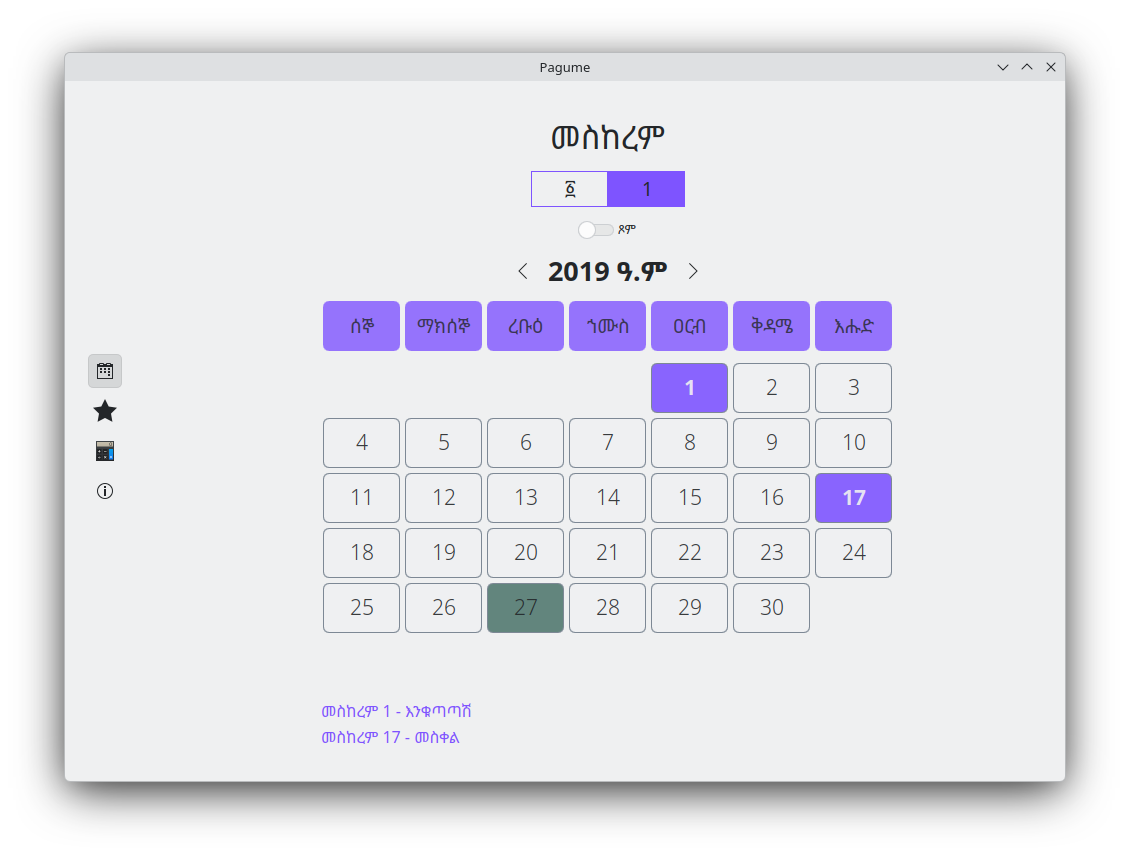
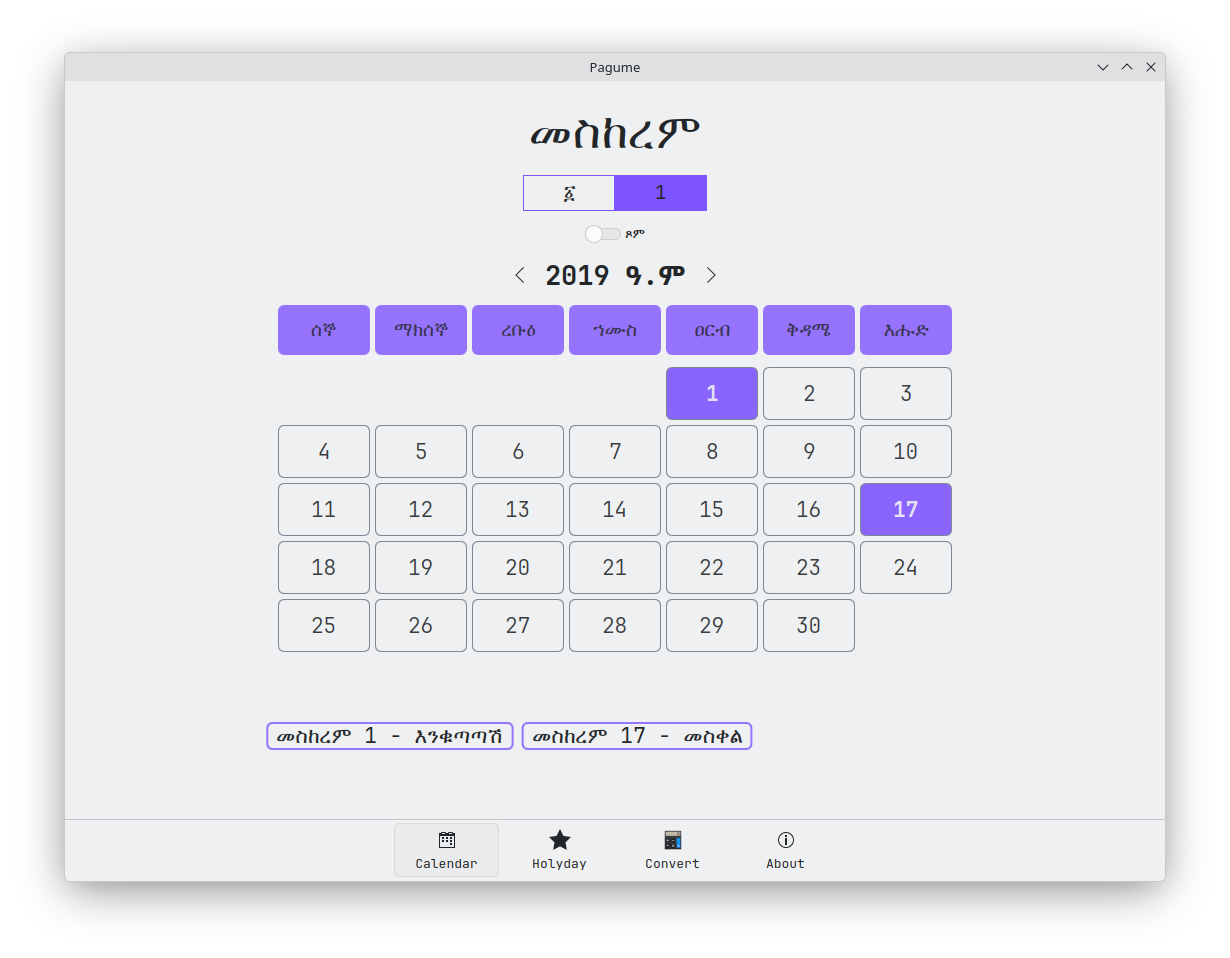
0.3.9

diff --git a/src/qml/pages/Calendar.qml b/src/qml/pages/Calendar.qml
@@ -14,6 +14,7 @@ import "BehareHasab.js" as BahireHasab
 Kirigami.ScrollablePage {
     id: calendarPage
 
+    property bool mobileLayout: Kirigami.Settings.isMobile || width < 600
     property var months: ["መስከረም", "ጥቅምት", "ሕዳር", "ታኅሣሥ", "ጥር", "የካቲት", "መጋቢት", "ሚያዝያ", "ግንቦት", "ሰኔ", "ሐምሌ", "ነሐሴ", "ጳጕሜን"]
     property var amharicNumbers: ["፩", "፪", "፫", "፬", "፭", "፮", "፯", "፰", "፱", "፲", "፲፩", "፲፪", "፲፫", "፲፬", "፲፭", "፲፮", "፲፯", "፲፰", "፲፱", "፳", "፳፩", "፳፪", "፳፫", "፳፬", "፳፭", "፳፮", "፳፯", "፳፰", "፳፱", "፴"]
     property var arabicNumbers: ["1", "2", "3", "4", "5", "6", "7", "8", "9", "10", "11", "12", "13", "14", "15", "16", "17", "18", "19", "20", "21", "22", "23", "24", "25", "26", "27", "28", "29", "30"]
@@ -62,7 +63,7 @@ Kirigami.ScrollablePage {
         publicHolidays.append({
             name: "የብሔር ብሔረሰቦች ቀን",
             month: "ሕዳር",
-            day: 17,
+            day: 29,
             fast: false
         });
 
@@ -173,15 +174,13 @@ Kirigami.ScrollablePage {
     }
 
     ColumnLayout {
-        anchors.top: parent.top
-        anchors.topMargin: Kirigami.Units.largeSpacing * 2
         spacing: Kirigami.Units.largeSpacing * 1.5
         Layout.alignment: Qt.AlignHCenter
 
+        // Month Heading
         Kirigami.Heading {
             text: (calendarPage.currentEthMonth >= 1 && calendarPage.currentEthMonth <= EthCal.months.length) ? EthCal.months[calendarPage.currentEthMonth - 1] : ""
-            font.pointSize: calendarPage.height < 750 ? 24 : 36
-
+            font.pointSize: calendarPage.mobileLayout ? 24 : 36
             horizontalAlignment: Text.AlignHCenter
             Layout.alignment: Qt.AlignHCenter
         }
@@ -225,6 +224,7 @@ Kirigami.ScrollablePage {
             }
         }
 
+        // Fasting switch
         RowLayout {
             Layout.alignment: Qt.AlignHCenter
             Controls.Switch {
@@ -253,7 +253,7 @@ Kirigami.ScrollablePage {
 
             Controls.Label {
                 text: calendarPage.currentEthYear + " ዓ.ም"
-                font.pointSize: 20
+                font.pointSize: calendarPage.mobileLayout ? 14 : 20
                 font.bold: true
             }
 
@@ -284,7 +284,7 @@ Kirigami.ScrollablePage {
                     opacity: 0.8
                     Controls.Label {
                         anchors.centerIn: parent
-                        text: modelData
+                        text: calendarPage.mobileLayout ? modelData.substring(0, 1) : modelData
                         color: Kirigami.Theme.textColor
                         font.pointSize: 14
                     }
@@ -380,9 +380,22 @@ Kirigami.ScrollablePage {
 
                     Controls.Label {
                         anchors.centerIn: parent
-                        text: calendarPage.isAmharic ? (typeof dayCell.validDay === "boolean" && dayCell.validDay && Array.isArray(calendarPage.amharicNumbers) && calendarPage.amharicNumbers.length > 0) ? (dayCell.dayNumber >= 1 && dayCell.dayNumber <= calendarPage.amharicNumbers.length ? calendarPage.amharicNumbers[dayCell.dayNumber - 1] : String(dayCell.dayNumber)) : "" : (typeof dayCell.validDay === "boolean" && dayCell.validDay && Array.isArray(calendarPage.arabicNumbers) && calendarPage.arabicNumbers.length > 0) ? (dayCell.dayNumber >= 1 && dayCell.dayNumber <= calendarPage.arabicNumbers.length ? calendarPage.arabicNumbers[dayCell.dayNumber - 1] : String(dayCell.dayNumber)) : ""
+                        property string dayText: {
+                            if (!dayCell.validDay)
+                                return "";
+
+                            var numbers = calendarPage.isAmharic ? calendarPage.amharicNumbers : calendarPage.arabicNumbers;
+
+                            if (!numbers || numbers.length === 0)
+                                return "";
+
+                            var index = dayCell.dayNumber - 1;
+
+                            return index >= 0 && index < numbers.length ? numbers[index] : String(dayCell.dayNumber);
+                        }
+                        text: dayText
                         font.weight: dayCell.isHoliday ? Font.Bold : Font.Light
-                        font.pointSize: 16
+                        font.pointSize: calendarPage.mobileLayout ? 10 : 16
                         color: dayCell.isHoliday ? Kirigami.Theme.backgroundColor : Kirigami.Theme.textColor
                     }
                 }
@@ -390,19 +403,24 @@ Kirigami.ScrollablePage {
         }
 
         // holidays list
-        GridLayout {
-            rows: 3
-            flow: GridLayout.TopToBottom
-            rowSpacing: 4
-            columnSpacing: 40
-            Layout.leftMargin: calendarPage.width / 6
+        Flow {
+            spacing: Kirigami.Units.largeSpacing
+            Layout.leftMargin: calendarPage.mobileLayout ? 0 : calendarPage.width / 6
             Layout.fillWidth: true
             Repeater {
                 model: publicHolidays
                 delegate: Controls.Label {
                     text: model.month + " " + model.day + " - " + model.name
-                    color: "#7e54ff"
-                    font.pointSize: calendarPage.height < 800 ? 12 : 16
+                    color: Kirigami.Theme.textColor
+                    leftPadding: 10
+                    rightPadding: 10
+                    background: Rectangle {
+                        color: Kirigami.Theme.backgroundColor
+                        radius: 6
+                        border.color: "#9573fc"
+                        border.width: 2
+                    }
+                    font.pointSize: calendarPage.mobileLayout ? 12 : 16
                     visible: model.month === monthName(calendarPage.currentEthMonth) && (!model.fast || appSettings.fastIsOn)
                 }
             }

diff --git a/src/qml/Main.qml b/src/qml/Main.qml
@@ -12,8 +12,8 @@ Kirigami.ApplicationWindow {
     id: root
     width: 1100
     height: 800
-    minimumWidth: 700
-    minimumHeight: 700
+    minimumWidth: 360
+    minimumHeight: 800
 
     ListModel {
         id: itemsModel
@@ -35,45 +35,48 @@ Kirigami.ApplicationWindow {
         }
     }
 
-    RowLayout {
+    Controls.SwipeView {
+        id: swipeView
         anchors.fill: parent
-        Rectangle {
-            id: sideBar
-            Layout.preferredWidth: 80
-            color: Kirigami.Theme.backgroundColor
-            Layout.fillHeight: true
+        clip: true
+        onCurrentIndexChanged: footer.currentIndex = currentIndex
+        Calendar {
+            id: calendar
+        }
+        Holyday {
+            id: holyday
+        }
+        Convert {
+            id: convert
+        }
+        About {
+            id: about
+        }
+    }
 
-            Column {
-                anchors.centerIn: parent
-                spacing: Kirigami.Units.smallSpacing
-
-                Repeater {
-                    id: navButton
-                    model: itemsModel
-                    delegate: Controls.ToolButton {
-                        icon.name: model.iconName
-                        icon.width: 24
-                        icon.height: 24
-                        Controls.ToolTip.text: model.name
-                        Controls.ToolTip.visible: hovered
-
-                        checkable: true
-                        checked: pageLoader.source.toString().includes(model.name)
-                        width: 36
-                        height: 36
-                        onClicked: {
-                            pageLoader.source = Qt.resolvedUrl(model.name + ".qml");
-                        }
-                    }
-                }
+    footer: Kirigami.NavigationTabBar {
+        actions: [
+            Kirigami.Action {
+                icon.name: "view-calendar"
+                text: "Calendar"
+                checked: true
+                onTriggered: swipeView.currentIndex = footer.currentIndex
+            },
+            Kirigami.Action {
+                icon.name: "emblem-favorite"
+                text: "Holyday"
+                onTriggered: swipeView.currentIndex = footer.currentIndex
+            },
+            Kirigami.Action {
+                icon.name: "accessories-calculator"
+                text: "Convert"
+                onTriggered: swipeView.currentIndex = footer.currentIndex
+            },
+            Kirigami.Action {
+                icon.name: "help-about"
+                text: "About"
+                onTriggered: swipeView.currentIndex = footer.currentIndex
             }
-        }
-
-        Loader {
-            id: pageLoader
-            Layout.fillWidth: true
-            Layout.fillHeight: true
-            source: Qt.resolvedUrl("Calendar.qml")
-        }
+        ]
     }
 }

diff --git a/src/qml/pages/Holyday.qml b/src/qml/pages/Holyday.qml
@@ -11,6 +11,7 @@ import "EthiopianCalendar.js" as EthCal
 Kirigami.ScrollablePage {
     id: holidayPage
 
+    property bool mobileLayout: Kirigami.Settings.isMobile || width < 600
     property date today: new Date()
     property var ethToday: EthCal.toEthiopian(today.getFullYear(), today.getMonth() + 1, today.getDate())
     property string currentDay: ethToday.day
@@ -172,7 +173,7 @@ Kirigami.ScrollablePage {
 
     GridLayout {
         id: grid
-        columns: 4
+        columns: holidayPage.mobileLayout ? 2 : 4
         columnSpacing: Kirigami.Units.largeSpacing
         rowSpacing: Kirigami.Units.largeSpacing
         Layout.alignment: Qt.AlignHCenter
@@ -202,7 +203,7 @@ Kirigami.ScrollablePage {
 
                         Controls.Label {
                             text: model.main
-                            font.bold: true
+                            font.bold: holidayPage.mobileLayout ? false : true
                             wrapMode: Text.WordWrap
                             Layout.fillWidth: true
                             color: Kirigami.Theme.textColor
@@ -211,6 +212,7 @@ Kirigami.ScrollablePage {
                         Controls.Label {
                             text: model.day
                             color: Kirigami.Theme.textColor
+                            font.pointSize: holidayPage.mobileLayout ? 7 : 10
                             horizontalAlignment: Text.AlignRight
                         }
                     }

diff --git a/src/qml/pages/Convert.qml b/src/qml/pages/Convert.qml
@@ -11,6 +11,7 @@ import "EthiopianCalendar.js" as EthCal
 Kirigami.Page {
     id: convertPage
 
+    property bool mobileLayout: Kirigami.Settings.isMobile || width < 600
     property date today: new Date()
     property var ethToday: EthCal.toEthiopian(today.getFullYear(), today.getMonth() + 1, today.getDate())
 
@@ -176,7 +177,8 @@ Kirigami.Page {
                 opacity: 0.7
             }
 
-            RowLayout {
+            Flow {
+                flow: convertPage.mobileLayout ? Flow.TopToBottom : Flow.LeftToRight
                 spacing: Kirigami.Units.largeSpacing
                 Layout.alignment: Qt.AlignCenter
 
@@ -236,7 +238,7 @@ Kirigami.Page {
             Kirigami.Heading {
                 id: resultText
                 text: "M / D / Y"
-                font.pointSize: 24
+                font.pointSize: convertPage.mobileLayout ? 16 : 24
                 color: Kirigami.Theme.activeTextColor
                 Layout.alignment: Qt.AlignCenter
             }

diff --git a/src/main.cpp b/src/main.cpp
@@ -34,7 +34,7 @@ int main(int argc, char *argv[]) {
   }
 
   KAboutData aboutData(
-      QStringLiteral("Pagume"), i18n("Pagume"), QStringLiteral("0.3.8"),
+      QStringLiteral("Pagume"), i18n("Pagume"), QStringLiteral("0.3.9"),
       i18n("Ethiopian calendar with main holidays"), KAboutLicense::GPL_V3,
       i18n("© 2026 Abenezer Wesenseged"), QString{},
       QStringLiteral("https://github.com/wesenseged/Pagume"));

diff --git a/CHANGELOG.md b/CHANGELOG.md
@@ -6,6 +6,15 @@ The format is based on [Keep a Changelog](https://keepachangelog.com/en/1.1.0/),
 and this project adheres to [Semantic Versioning](https://semver.org/spec/v2.0.0.html).
 ## [Unreleased]
 
+## [0.3.9] - 2026-11-21
+
+### Changed
+- Redesign navigation tab for responsive design.
+- የብሔር ብሔረሰቦች ቀን from ሕዳር 17 to ሕዳር 29
+
+### Fixed
+- Mobile view
+
 ## [0.3.8] - 2026-11-02
 
 ### Changed
@@ -94,7 +103,8 @@ and this project adheres to [Semantic Versioning](https://semver.org/spec/v2.0.0
 
 Initial public release of Pagume for KDE and Flathub.
 
-[Unreleased]: https://github.com/wesenseged/Pagume/compare/0.3.8...HEAD
+[Unreleased]: https://github.com/wesenseged/Pagume/compare/0.3.9...HEAD
+[0.3.9]: https://github.com/wesenseged/Pagume/releases/tag/0.3.9
 [0.3.8]: https://github.com/wesenseged/Pagume/releases/tag/0.3.8
 [0.2.8]: https://github.com/wesenseged/Pagume/releases/tag/0.2.8
 [0.1.8]: https://github.com/wesenseged/Pagume/releases/tag/0.1.8
